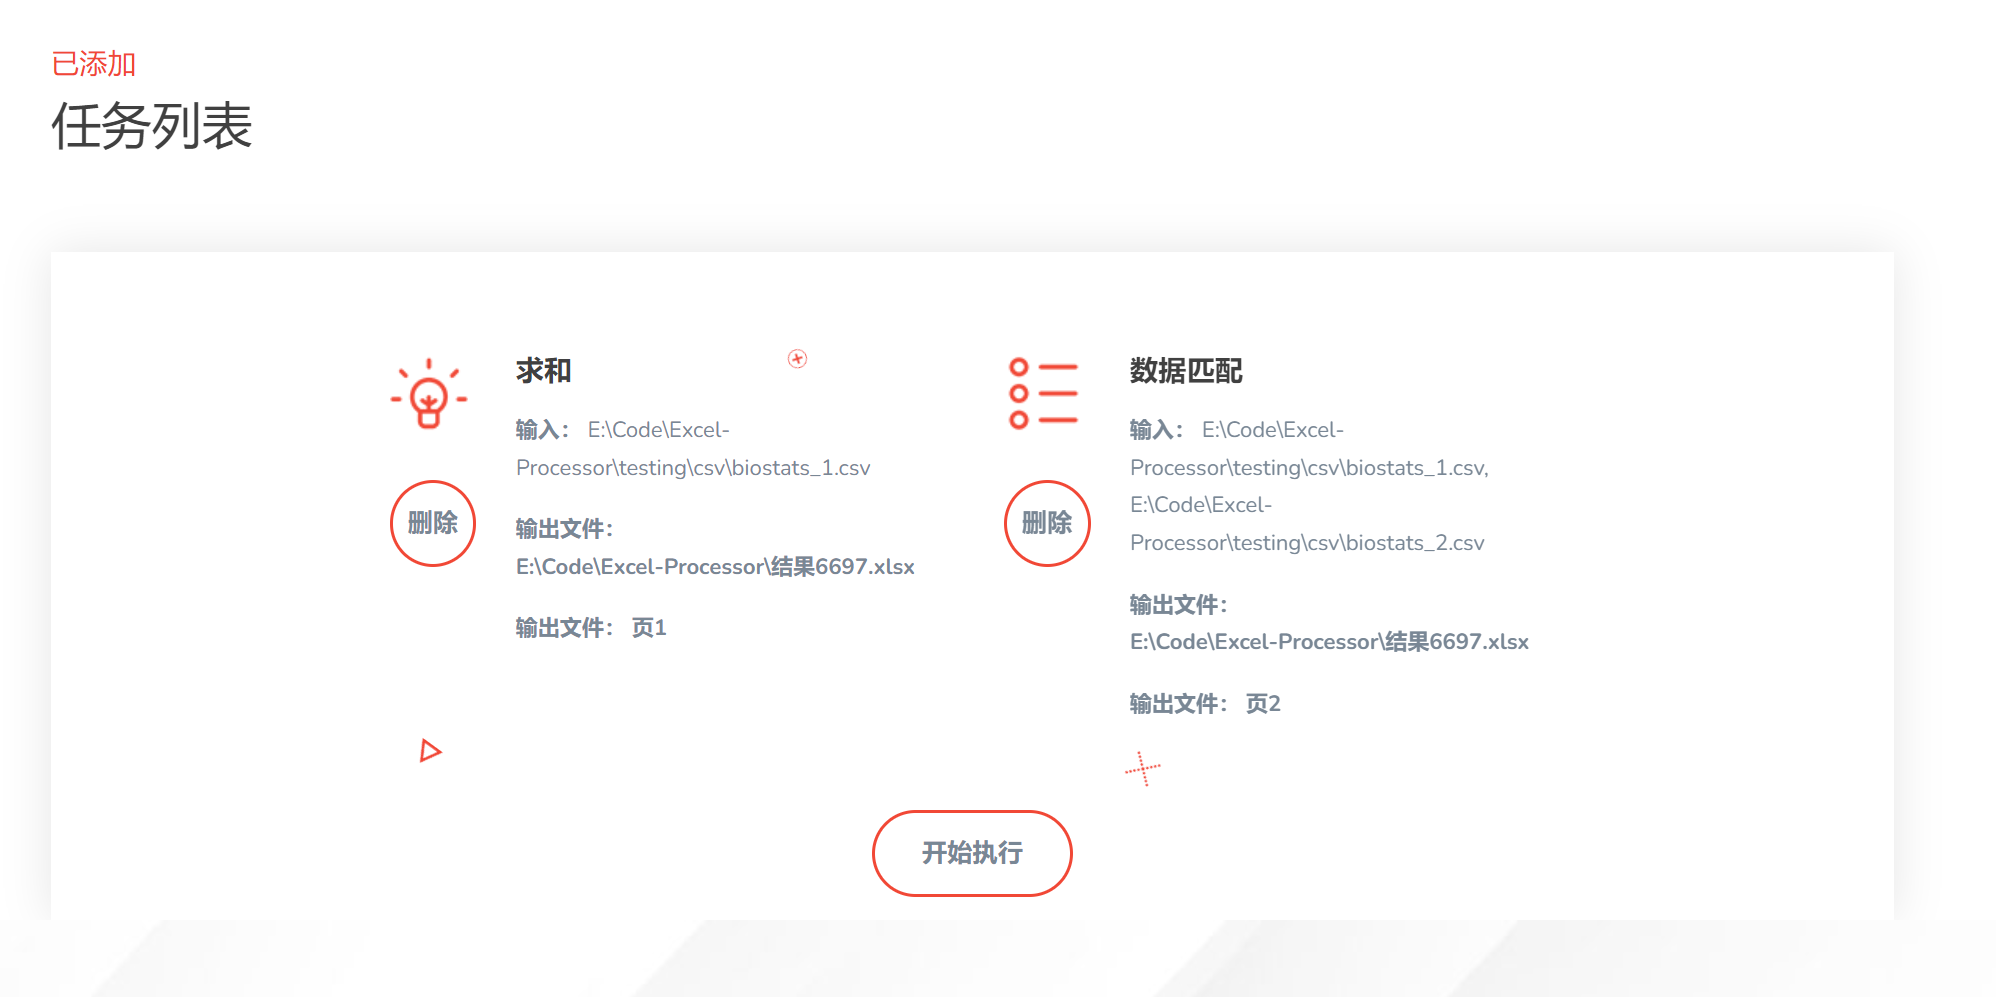
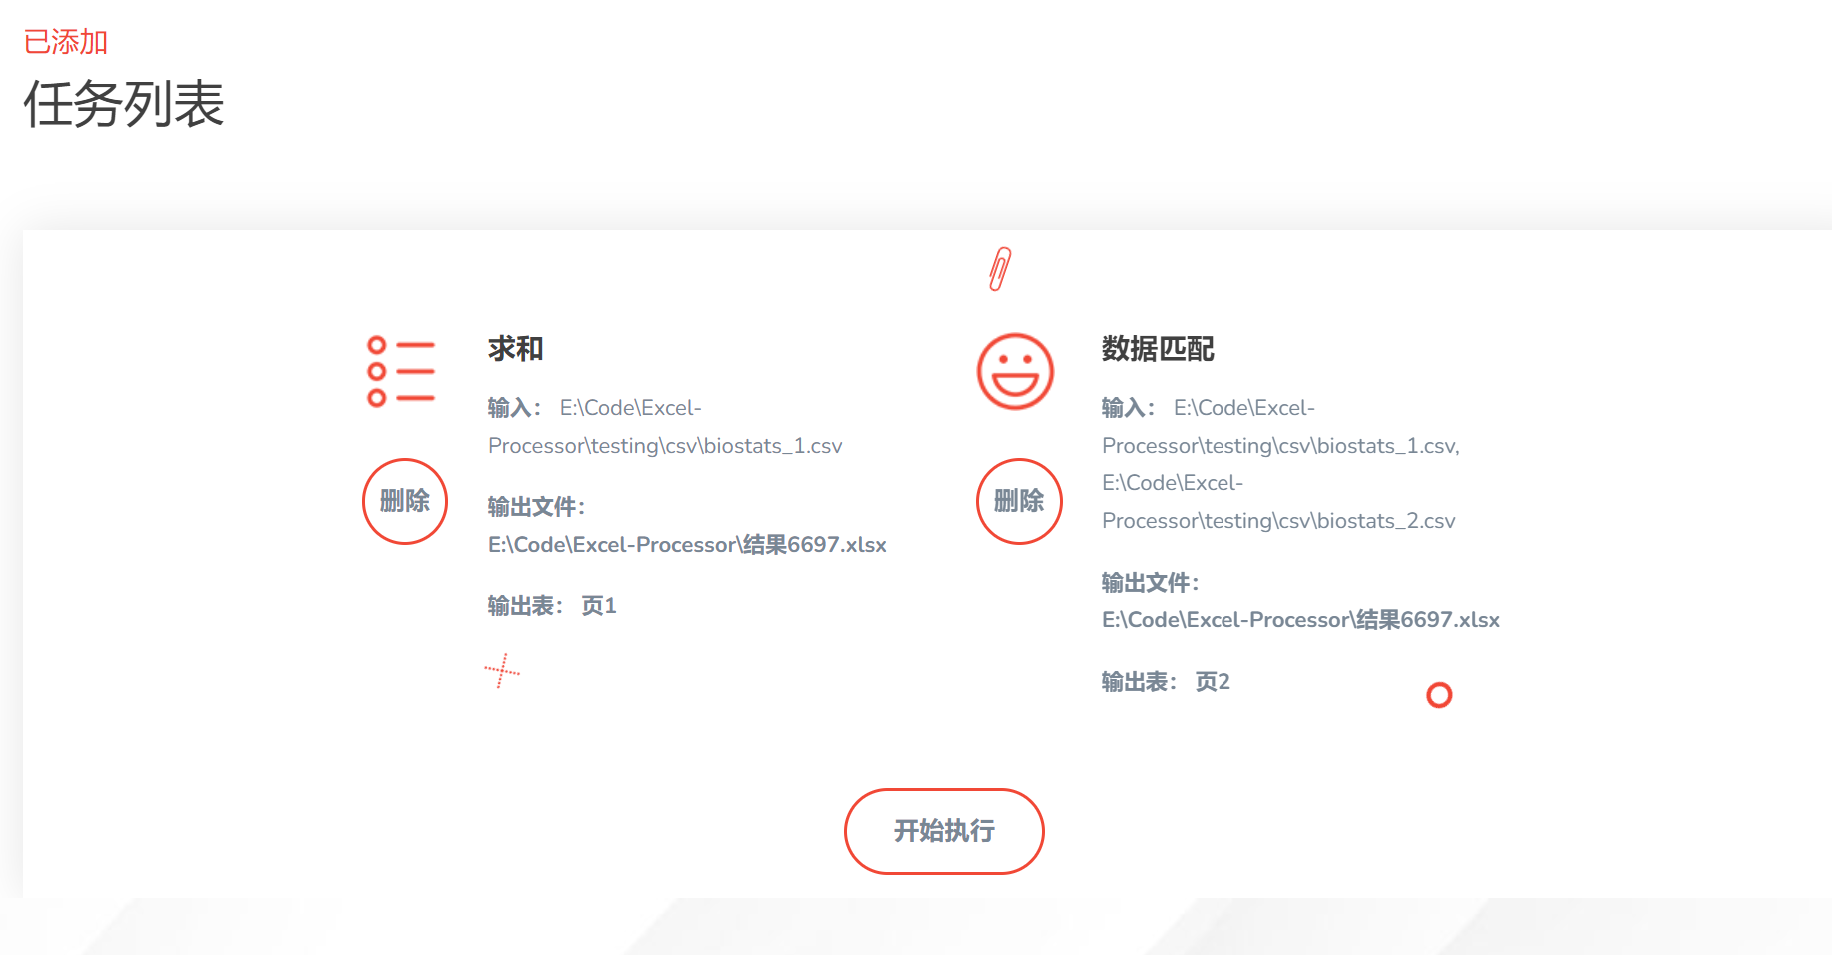
tiny fixes.

diff --git a/web/assets/js/excel-tool.js b/web/assets/js/excel-tool.js
@@ -390,7 +390,7 @@ $('#add-task-btn').click(async function () {
             .append($('<h4 class="task-title"></h4>').text(taskTitle)) // task title
             .append($('<p><span>输入： </span> ' + inputPaths.join(", ") + '</p>').addClass('text')) // input path
             .append($('<p><span>输出文件： </span> <span class="output-file-path">' + taskSettings['output-file-path'] + '</span></p>').addClass('text')) // output path
-            .append($('<p><span>输出文件： </span> <span class="output-sheet-name">' + taskSettings['output-sheet-name'] + '</span></p>').addClass('text'))); // output sheet
+            .append($('<p><span>输出表： </span> <span class="output-sheet-name">' + taskSettings['output-sheet-name'] + '</span></p>').addClass('text'))); // output sheet
 
     // add shape
     for (let shape of taskAnimations[currTaskAnimation][1]) {

diff --git a/main.py b/main.py
@@ -161,6 +161,7 @@ def run_all_tasks():
             except Exception:
                 traceback.print_exc()
                 return [False, "遇到一个异常，请查看日志！"]
+    output_task_map.clear()
     return [True, '任务完成，请在文件 [' + '、'.join(output_paths) + ' 中查看结果！']
 
 
